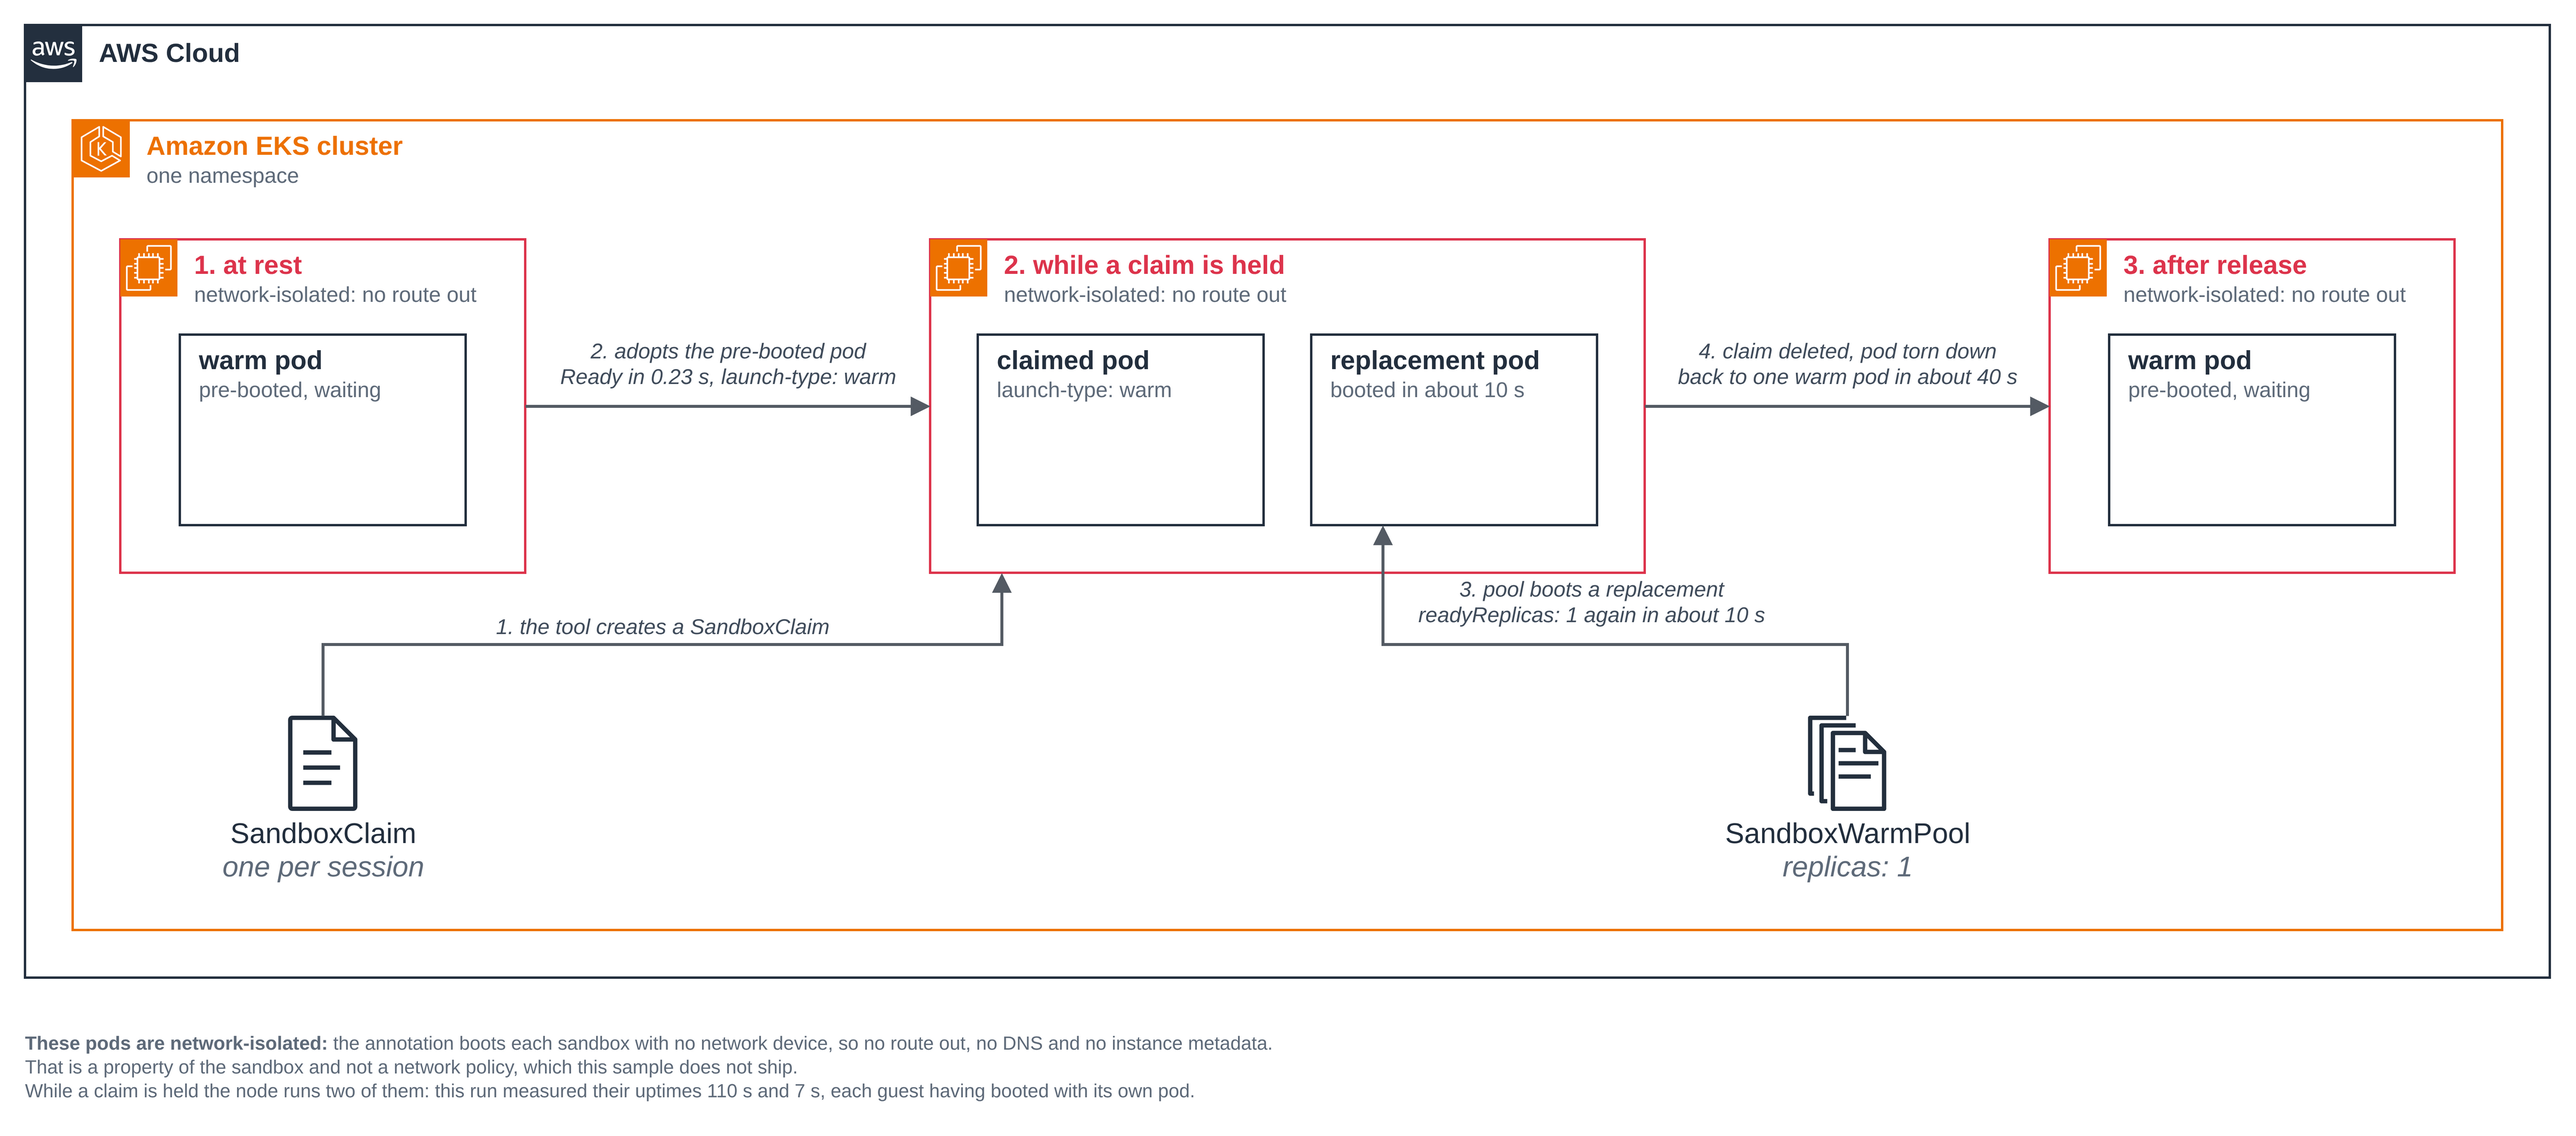
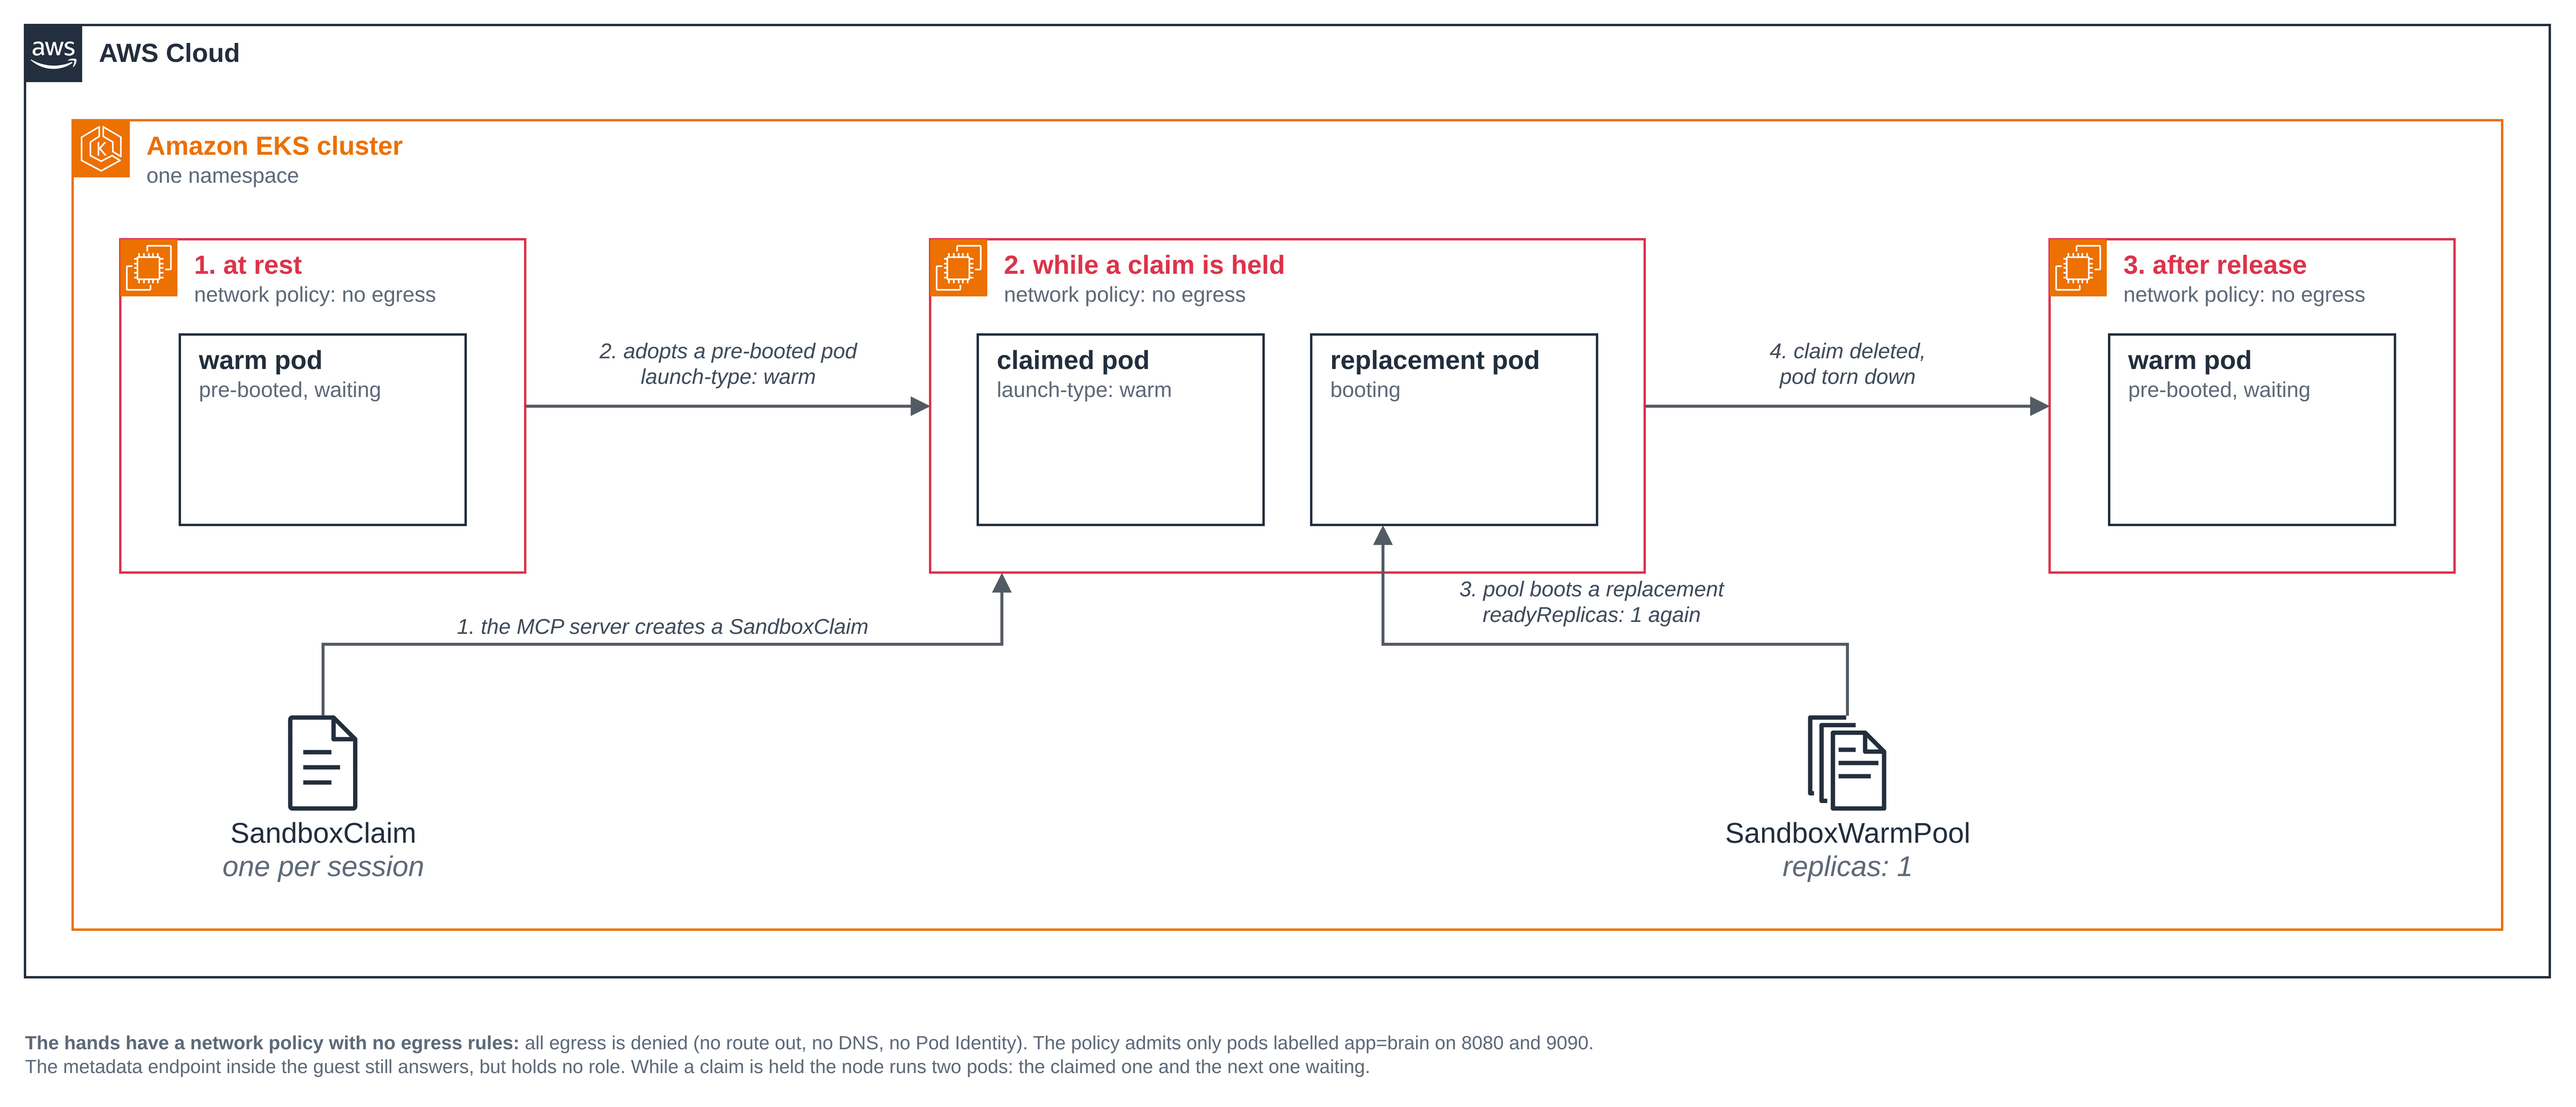
brain-and-hands: redraw figures 1 and 2 for the sandboxd wire
Both figures still showed the network-isolated hands reached only through
the Kubernetes API (exec, cp, logs). Figure 1 now shows the brain dialling
sandboxd on 9090 gRPC and 8080 REST with a bearer token through the
template network policy (ingress from the brain only, no egress), and the
Kubernetes API as a claim-only control path. Figure 2 drops the timings
the new design has not measured and the network-isolated sub lines.

check_drawio.py: 0 errors and 0 warnings on both. The first export of
figure 2 had four edge-label border warnings and a footnote that said
both 'no instance metadata' and that the metadata endpoint answers; both
fixed before this commit. mkdocs build --strict passes.

Refs #168

diff --git a/examples/agent-sandbox/brain-and-hands/README.md b/examples/agent-sandbox/brain-and-hands/README.md
@@ -78,10 +78,7 @@ sample is the worked version of it.
 
 *Figure 1: The brain and the hands, in two pods. The brain reasons and holds the credentials but has no tool that runs a command; the hands run every command; the brain reaches them through sandboxd on two ports that the hands' network policy opens to the brain alone.*
 
-TODO: Figure 1 redrawn for the sandboxd wire (issue #168). The figure below still shows the
-Kubernetes API path this page used before.
-
-![Inside an AWS Cloud frame and an Amazon EKS cluster, the brain pod on the left and the Nitro sandbox pods on the right, with the Kubernetes API between them. This is the figure from before issue 168 and is being redrawn.](images/figure-1-brain-and-hands.png)
+![Inside an AWS Cloud frame and an Amazon EKS cluster, the brain pod on the left and the Nitro sandbox pods on the right. The brain, an ordinary pod with no runtimeClassName, holds Claude Code with no tool that runs a command. The hands are Nitro sandbox pods with runtimeClassName isolated-sandbox: a claimed pod runs every command and a warm pod sits pre-booted and waiting. The brain reaches the hands directly over sandboxd (9090 gRPC for commands, 8080 REST for files) with a bearer token, routed above to avoid the network policy icon between them. The network policy governs the hands: ingress from the brain only. A Kubernetes API icon below is labelled control plane only, reached from the brain for create/read/delete claims and read Sandboxes. Amazon Bedrock and a Pod Identity role sit at the bottom, with the brain reaching the model over HTTPS via InvokeModel and the role authorising that call. A SandboxWarmPool with replicas 1 sits at bottom right, with edges showing it adopts a pre-booted pod in about a second to become the claimed pod and boots a replacement to become the warm pod.](images/figure-1-brain-and-hands.png)
 
 ### What this sample does not limit
 
@@ -382,9 +379,7 @@ beforehand, and again afterwards, so the cost moves off the path a session waits
 
 *Figure 2: The life of one claim against a warm pool. A claim adopts a pod that is already booted; the pool boots a replacement behind it.*
 
-TODO: Figure 2 redrawn for the sandboxd wire (issue #168).
-
-![Three states of one claim against a warm pool: at rest, while a claim is held, and after release. This is the figure from before issue 168 and is being redrawn.](images/figure-2-claim-lifecycle.png)
+![Three states of one claim against a warm pool, inside an Amazon EKS cluster. State 1 at rest: a Nitro sandbox frame with network policy stating no egress, containing one warm pod that is pre-booted and waiting. State 2 while a claim is held: a wider Nitro sandbox frame with the same network policy, containing a claimed pod with launch-type warm and a replacement pod that is booting. State 3 after release: the same structure as State 1, back to one warm pod. Below the states, a SandboxClaim icon labelled one per session and a SandboxWarmPool icon labelled replicas 1. Four edges: 1. the MCP server creates a SandboxClaim, 2. adopts a pre-booted pod (launch-type: warm), 3. pool boots a replacement (readyReplicas 1 again), 4. claim deleted, pod torn down. A note below the figure reads that the hands' network policy has no egress rules, so all egress is denied, with no route out, no DNS and no Pod Identity; that it admits only pods labelled app=brain on 8080 and 9090; that the metadata endpoint inside the guest still answers but holds no role; and that while a claim is held the node runs two pods.](images/figure-2-claim-lifecycle.png)
 
 Ask the agent to create one and keep it, then read the claim and the pool:
 
